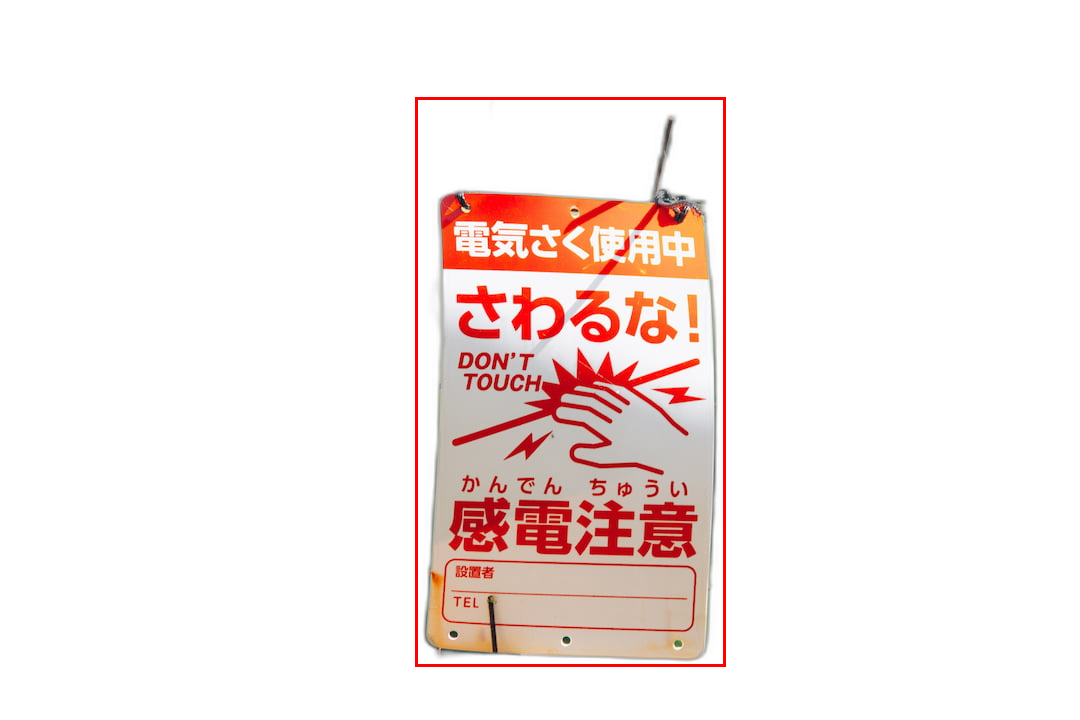
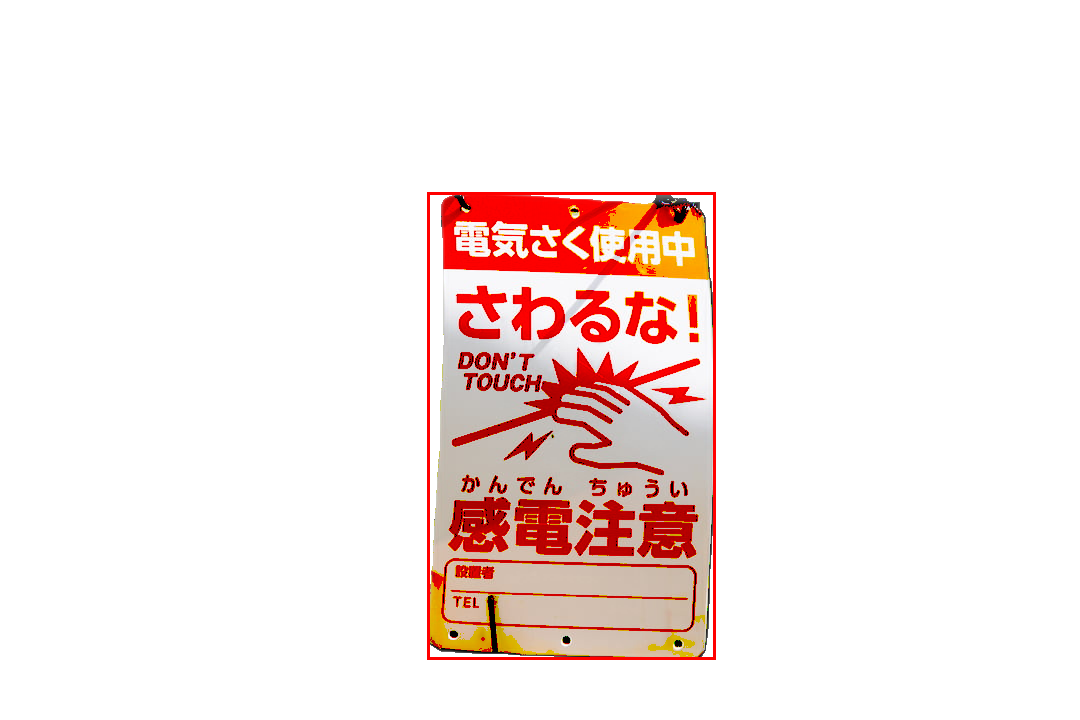
⚡ Better preprocessing and updated readme

Changed region(s): [[0.3667, 0.1222, 0.6722, 0.9472]]

diff --git a/services/motif-service/application/python/get_motif_bbox/processed_image.py b/services/motif-service/application/python/get_motif_bbox/processed_image.py
@@ -22,12 +22,16 @@ class ProcessedImage:
         
         # Convert to numpy array for morphological operations
         processed_np = np.array(processed_img)
+        
+        # Threshold the image to remove pixels that are not fully opaque
+        threshold = 150  # Adjust this threshold as needed
+        processed_np[processed_np < threshold] = 0  # Set pixels below the threshold to 0 (black)
 
         # Assume the alpha channel is the 4th channel
         alpha_channel = processed_np[:, :, 3]
 
         # Perform noise reduction on the alpha channel
-        cleaned_alpha_channel = self.__remove_noise(alpha_channel)
+        cleaned_alpha_channel = self.__remove_noise(alpha_channel, (10,10), 1)
 
         # Replace the alpha channel in the processed image
         processed_np[:, :, 3] = cleaned_alpha_channel
@@ -44,7 +48,7 @@ class ProcessedImage:
         """
         kernel = cv2.getStructuringElement(cv2.MORPH_RECT, kernel_size)
         # Use 'closing' morphological operation (dilation followed by erosion) to remove noise.
-        closing = cv2.morphologyEx(image_array, cv2.MORPH_CLOSE, kernel, iterations=iterations)
-        return closing
+        opening = cv2.morphologyEx(image_array, cv2.MORPH_OPEN, kernel, iterations)
+        return opening
     
     

diff --git a/services/motif-service/README.md b/services/motif-service/README.md
@@ -2,6 +2,17 @@
 
 This service provides a bounding box for the motif i.e. the main subject of a given image via an http or gRPC calls.
 
+By using the [rembg](https://github.com/danielgatis/rembg#rembg) library the service takes an input image and removes its background.
+After denoising the result with convolutional filters, the service calculates the bounding box of the main subject and returns its information in the JSON format.
+
+## Examples
+
+| Input                                      | Debug Image                                       | Output                                              |
+| ------------------------------------------ | ------------------------------------------------- | --------------------------------------------------- |
+| ![Input image](./docs/examples/obj.jpg)    | ![Output image](./docs/examples/obj_debug.png)    | `{"x": 415,"y": 97,"width": 310,"height": 569}`     |
+| ![Input image](./docs/examples/person.jpg) | ![Output image](./docs/examples/person_debug.png) | `{"x": 426, "y": 119, "width": 288, "height": 540}` |
+| ![Input image](./docs/examples/animal.jpg) | ![Output image](./docs/examples/animal_debug.png) | `{"x": 176, "y": 63, "width": 726, "height": 656}`  |
+
 ## Dependencies
 
 This service depends on the following repositories:
@@ -16,5 +27,5 @@ This service depends on the following repositories:
 
 Example images used in the tests are from [Unsplash](https://unsplash.com/):
 
-- [Object example photo](./docs/example/obj.jpg) by [Atul Vinayak](https://unsplash.com/@atulvi?utm_content=creditCopyText&utm_medium=referral&utm_source=unsplash) on [Unsplash](https://unsplash.com/photos/text-9ZvjWPDb0fE?utm_content=creditCopyText&utm_medium=referral&utm_source=unsplash)
-  
+- [Object example](./docs/examples/obj.jpg) by [Atul Vinayak](https://unsplash.com/@atulvi?utm_content=creditCopyText&utm_medium=referral&utm_source=unsplash)
+- [Person example](./docs/examples/person.jpg) by [Isabela Drasovean](https://unsplash.com/@isabeladrasovean?utm_content=creditCopyText&utm_medium=referral&utm_source=unsplash)
